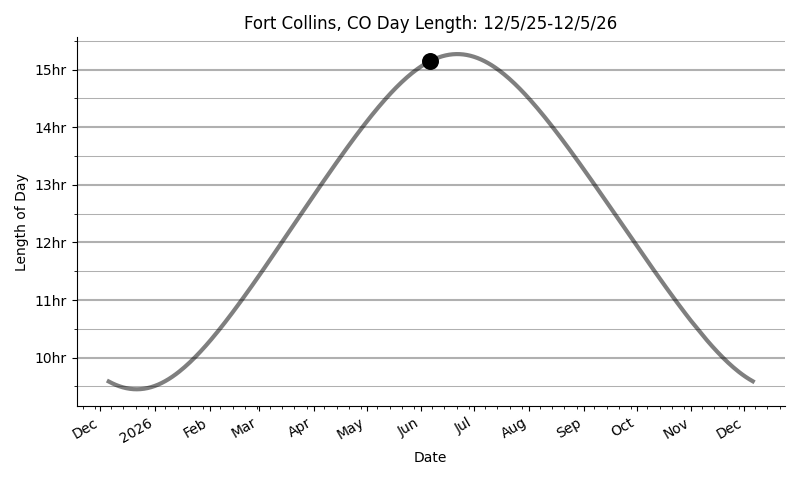
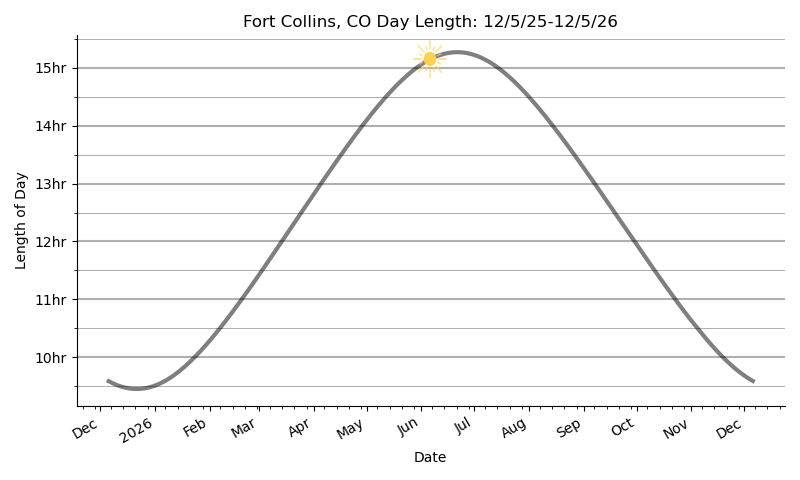
update daylength fig

diff --git a/daylength.py b/daylength.py
@@ -108,7 +108,7 @@ def daylength(latitude,longitude,elevation,timezone,city_name):
     ax.spines['right'].set_visible(False)
     fig.autofmt_xdate()
     plt.tight_layout()
-    # plt.savefig('Images/daylength.png')
+    plt.savefig('Images/daylength.png')
     plt.show()
     
 